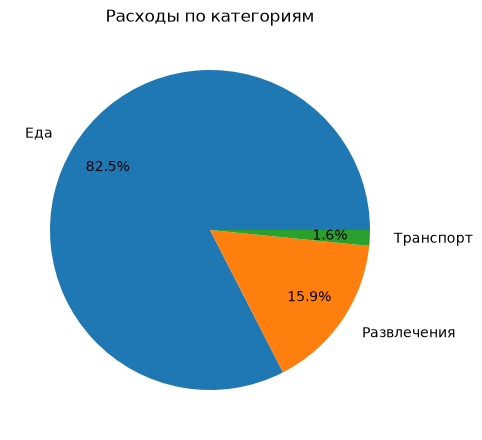
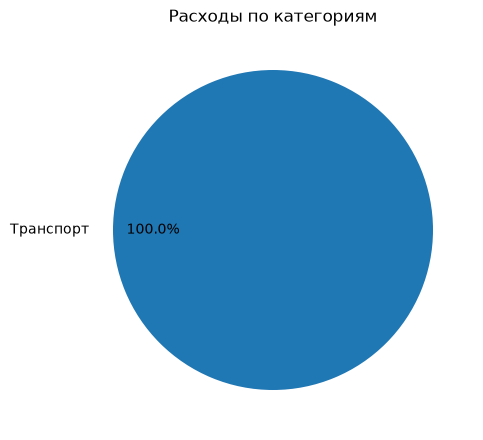
Add files via upload

Changed region(s): [[0.0, 0.1477, 0.9959, 0.8864], [0.2178, 0.0, 0.778, 0.0591], [0.0311, 0.2955, 0.1245, 0.325]]

diff --git a/templates/index.html b/templates/index.html
@@ -5,7 +5,6 @@
     <meta name="viewport" content="width=device-width, initial-scale=1.0">
     <title>Трекер расходов</title>
     <style>
-        /* Светлая тема (по умолчанию) */
         :root {
             --bg: #ffffff;
             --text: #2c3e50;
@@ -21,7 +20,6 @@
             --filter-active-text: #ffffff;
         }
 
-        /* Тёмная тема */
         body.dark {
             --bg: #1a1a2e;
             --text: #e0e0e0;
@@ -47,11 +45,8 @@
             transition: background 0.3s, color 0.3s;
         }
 
-        h1, h2 {
-            color: var(--text);
-        }
+        h1, h2 { color: var(--text); }
 
-        /* Шапка пользователя */
         .user-bar {
             display: flex;
             justify-content: flex-end;
@@ -61,9 +56,7 @@
             font-size: 15px;
         }
 
-        .user-bar strong {
-            color: #3498db;
-        }
+        .user-bar strong { color: #3498db; }
 
         .logout-btn {
             padding: 6px 14px;
@@ -75,9 +68,7 @@
             transition: background 0.2s;
         }
 
-        .logout-btn:hover {
-            background: var(--filter-hover);
-        }
+        .logout-btn:hover { background: var(--filter-hover); }
 
         form {
             background: var(--card-bg);
@@ -113,9 +104,7 @@
             font-size: 14px;
         }
 
-        button:hover {
-            background: #2980b9;
-        }
+        button:hover { background: #2980b9; }
 
         table {
             width: 100%;
@@ -144,13 +133,8 @@
             font-size: 15px;
         }
 
-        tbody tr {
-            transition: background 0.15s;
-        }
-
-        tbody tr:hover {
-            background: var(--filter-hover);
-        }
+        tbody tr { transition: background 0.15s; }
+        tbody tr:hover { background: var(--filter-hover); }
 
         td.amount {
             text-align: right;
@@ -158,9 +142,7 @@
             color: #3498db;
         }
 
-        th.amount {
-            text-align: right;
-        }
+        th.amount { text-align: right; }
 
         .badge {
             display: inline-block;
@@ -200,19 +182,10 @@
             transform: scale(1.1);
         }
 
-        td.comment {
-            color: var(--text);
-            opacity: 0.7;
-        }
+        td.comment { color: var(--text); opacity: 0.7; }
+        td.date { color: var(--text); opacity: 0.8; }
 
-        td.date {
-            color: var(--text);
-            opacity: 0.8;
-        }
-
-        .filters {
-            margin-bottom: 15px;
-        }
+        .filters { margin-bottom: 15px; }
 
         .filters a {
             display: inline-block;
@@ -226,10 +199,7 @@
             transition: background 0.2s;
         }
 
-        .filters a:hover {
-            background: var(--filter-hover);
-        }
-
+        .filters a:hover { background: var(--filter-hover); }
         .filters a.active {
             background: var(--filter-active);
             color: var(--filter-active-text);
@@ -263,14 +233,8 @@
             align-items: flex-start;
         }
 
-        .left-col {
-            flex: 1;
-            min-width: 0;
-        }
-
-        .right-col {
-            flex: 0 0 400px;
-        }
+        .left-col { flex: 1; min-width: 0; }
+        .right-col { flex: 0 0 400px; }
 
         .right-col img {
             width: 100%;
@@ -307,125 +271,42 @@
             z-index: 1000;
         }
 
-        .theme-toggle:hover {
-            transform: scale(1.1);
-        }
+        .theme-toggle:hover { transform: scale(1.1); }
 
-        /* ============================================ */
-        /* АДАПТИВ ПОД ТЕЛЕФОН                          */
-        /* ============================================ */
         @media (max-width: 768px) {
-            body {
-                margin: 20px auto;
-                padding: 0 12px;
-            }
-
+            body { margin: 20px auto; padding: 0 12px; }
             h1 { font-size: 22px; }
             h2 { font-size: 18px; }
-
             form { padding: 15px; }
-
-            label {
-                display: block;
-                width: 100%;
-                margin-bottom: 4px;
-            }
-
-            input, select {
-                width: 100%;
-                box-sizing: border-box;
-                margin-bottom: 12px;
-            }
-
-            button {
-                width: 100%;
-                padding: 12px;
-                font-size: 15px;
-            }
-
-            .layout {
-                flex-direction: column;
-                gap: 20px;
-            }
-
-            .right-col {
-                flex: 1;
-                width: 100%;
-            }
-
-            .left-col {
-                width: 100%;
-                overflow-x: auto;
-            }
-
-            table {
-                font-size: 13px;
-                min-width: 500px;
-            }
-
+            label { display: block; width: 100%; margin-bottom: 4px; }
+            input, select { width: 100%; box-sizing: border-box; margin-bottom: 12px; }
+            button { width: 100%; padding: 12px; font-size: 15px; }
+            .layout { flex-direction: column; gap: 20px; }
+            .right-col { flex: 1; width: 100%; }
+            .left-col { width: 100%; overflow-x: auto; }
+            table { font-size: 13px; min-width: 500px; }
             th, td { padding: 8px 10px; }
-
-            .badge {
-                font-size: 11px;
-                padding: 3px 8px;
-            }
-
-            .delete-btn {
-                width: 26px;
-                height: 26px;
-                font-size: 12px;
-            }
-
-            .filters a {
-                padding: 5px 10px;
-                font-size: 12px;
-                margin-bottom: 5px;
-            }
-
-            .total-box {
-                font-size: 16px;
-                padding: 10px 15px;
-            }
-
+            .badge { font-size: 11px; padding: 3px 8px; }
+            .delete-btn { width: 26px; height: 26px; font-size: 12px; }
+            .filters a { padding: 5px 10px; font-size: 12px; margin-bottom: 5px; }
+            .total-box { font-size: 16px; padding: 10px 15px; }
             .total-box strong { font-size: 18px; }
-
-            .theme-toggle {
-                top: 10px;
-                right: 10px;
-                width: 44px;
-                height: 44px;
-                font-size: 18px;
-            }
-
+            .theme-toggle { top: 10px; right: 10px; width: 44px; height: 44px; font-size: 18px; }
             .stats-box { padding: 15px; }
-
-            .user-bar {
-                font-size: 14px;
-                margin-bottom: 15px;
-            }
+            .user-bar { font-size: 14px; margin-bottom: 15px; }
         }
 
         @media (max-width: 400px) {
             h1 { font-size: 20px; }
-
-            table {
-                font-size: 12px;
-                min-width: 420px;
-            }
-
+            table { font-size: 12px; min-width: 420px; }
             th, td { padding: 6px 8px; }
-
-            .filters a {
-                font-size: 11px;
-                padding: 4px 8px;
-            }
+            .filters a { font-size: 11px; padding: 4px 8px; }
         }
     </style>
 </head>
 <body>
     <button class="theme-toggle" onclick="toggleTheme()" id="themeBtn">🌙</button>
 
-    <!-- Шапка пользователя -->
     <div class="user-bar">
         Привет, <strong>{{ username }}</strong>!
         <a href="/logout" class="logout-btn">Выйти</a>
@@ -462,7 +343,6 @@
     </form>
 
     <div class="layout">
-        <!-- Левая колонка — таблица -->
         <div class="left-col">
             <h2>Мои расходы</h2>
 
@@ -505,7 +385,6 @@
             {% endif %}
         </div>
 
-        <!-- Правая колонка — график -->
         <div class="right-col">
             <h2>Статистика</h2>
             <div class="stats-box">
@@ -515,18 +394,15 @@
     </div>
 
     <script>
-        // При загрузке — проверяем сохранённую тему
         const savedTheme = localStorage.getItem("theme");
         if (savedTheme === "dark") {
             document.body.classList.add("dark");
             document.getElementById("themeBtn").textContent = "☀";
         }
 
-        // Переключение темы
         function toggleTheme() {
             document.body.classList.toggle("dark");
             const isDark = document.body.classList.contains("dark");
-
             document.getElementById("themeBtn").textContent = isDark ? "☀" : "🌙";
             localStorage.setItem("theme", isDark ? "dark" : "light");
         }

diff --git a/app.py b/app.py
@@ -186,6 +186,21 @@ def is_logged_in():
 
 
 # ---------- МАРШРУТЫ ----------
+@app.route("/add", methods=["POST"])
+def add():
+    if not is_logged_in():
+        return redirect("/login")
+
+    amount = request.form.get("amount")
+    category = request.form.get("category")
+    date_val = request.form.get("date")
+    comment = request.form.get("comment", "")
+
+    if amount and category and date_val:
+        add_expense(session["user_id"], amount, category, date_val, comment)
+
+    return redirect("/")
+
 @app.route("/register", methods=["GET", "POST"])
 def register():
     if request.method == "POST":
@@ -240,9 +255,7 @@ def index():
     if not is_logged_in():
         return redirect("/login")
 
-    weather = None
     period = request.args.get("period")
-    error = None
 
     if request.method == "POST":
         amount = request.form.get("amount")

diff --git a/README.md b/README.md
@@ -4,7 +4,7 @@
 
 ## 🚀 Живой сайт
 
-https://expensetracker-fr2l.onrender.com/
+
 
 ## ✨ Возможности
 
